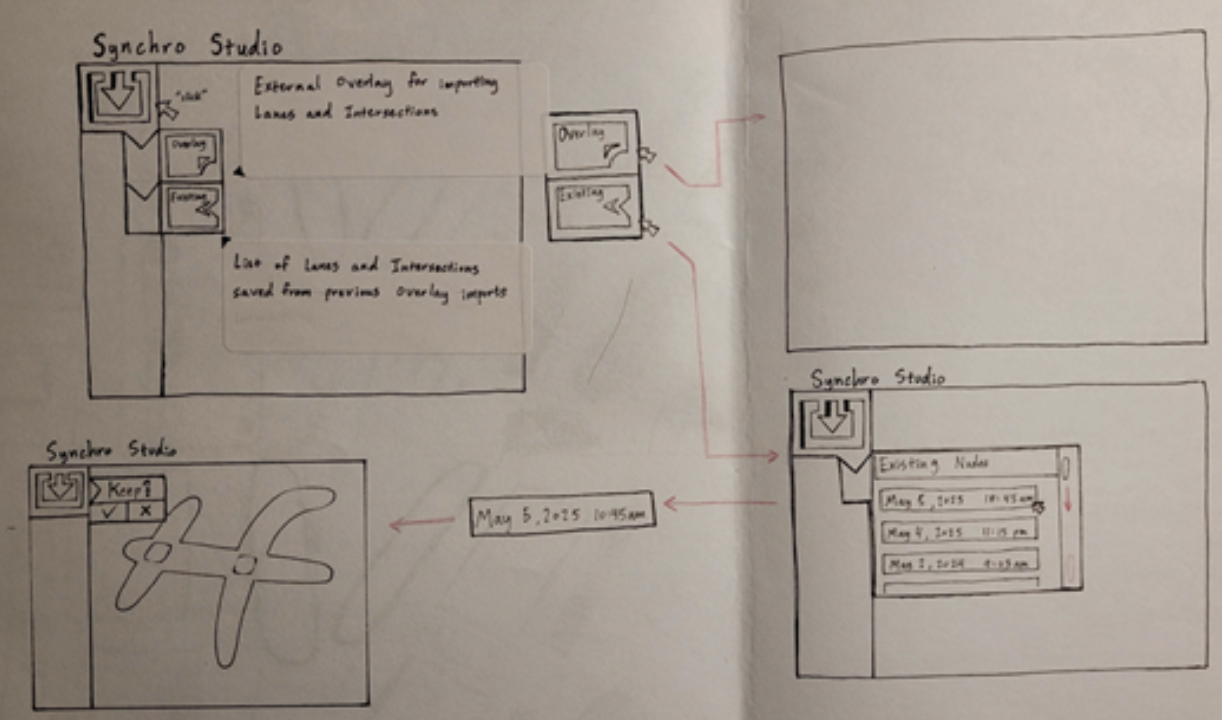
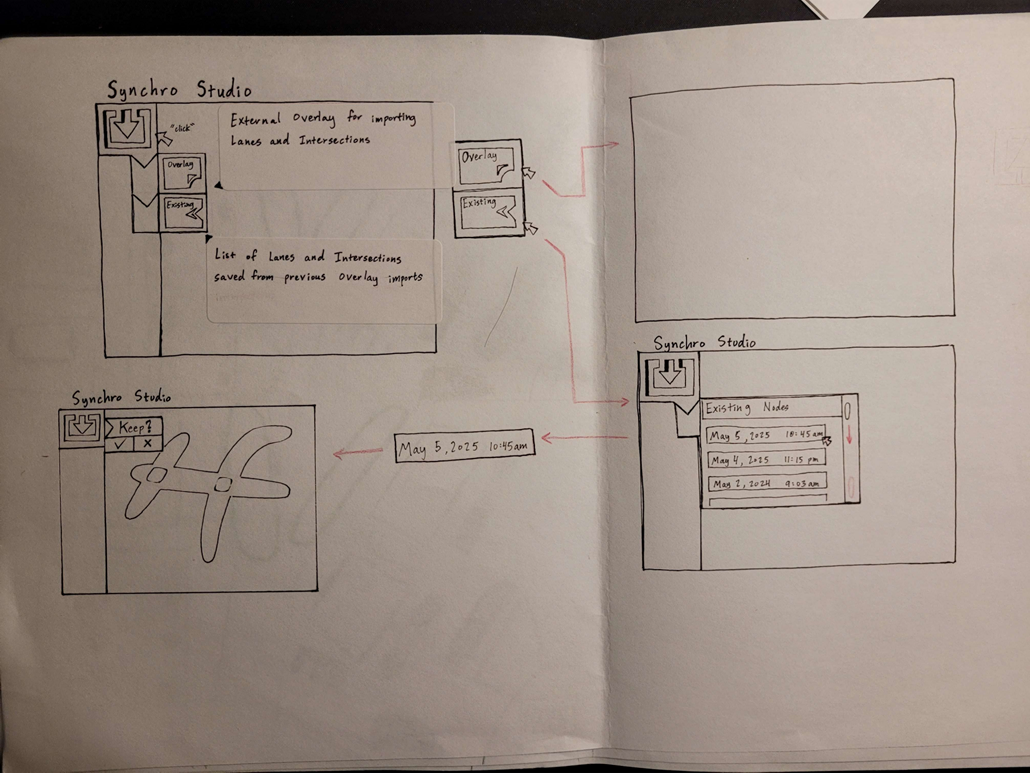
Add clearer images and reformat

Changed region(s): [[0.0, 0.0, 1.0, 1.0], [0.901, 0.0917, 0.932, 0.1222]]

diff --git a/project_report/README.md b/project_report/README.md
@@ -131,9 +131,9 @@ When we started working on paper prototype, we tried our best to focus on simpli
 What this process revealed is that it is not easy to design a product, as users could find it difficult to know what certain things do. Where we thought the user would have an easier time doing a certain task, it was actually difficult for them to do. This type of feedback helped us fix our designs so that users have an easier time doing tasks. This iterative process also revealed that users like simplicity, descriptions to help understand what certain buttons do, and also visual clarity. These types of feedback helped us make our final design easier to use. 
 
 ### Paper Prototype
-![image](https://github.com/user-attachments/assets/ce0e5cf5-f11d-44cf-a683-947ad28048a3)
-![image](https://github.com/user-attachments/assets/ec550d7a-fd00-433f-8765-462d19061a10)
-![image](https://github.com/user-attachments/assets/35bafd76-9d50-4fff-9e10-3f63f0c91250)
+![Paper Prototype 1 Improved](images/paper-prototype-task-1-improved-1.png)
+![Paper Prototype 2 Improved-1](images/paper-prototype-task-2-improved-1.png)
+![Paper Prototype 2 Improved-2](images/paper-prototype-task-2-improved-2.png)
 
 
 
@@ -146,8 +146,11 @@ the add lane button.
 to language used (i.e basic symbols).
 Because the lane adding was unclear, the
 exit button was also a little unclear."
-- **Design changes:** Before: ![image](https://github.com/user-attachments/assets/d41c8006-f061-446a-9f61-bace0dda8db8)
- After: ![image](https://github.com/user-attachments/assets/80ddde5e-5af8-43f6-8c86-fdf096d4efd4)
+- **Design changes:** 
+Before: 
+![Task 1-1 Visual Before](images/digital-prototype-task-1-old-1.png)
+After: 
+![Task 1-1 Visual After](images/digital-prototype-task-1-new-1.png)
 
 
 #### **Making Each Road Selectable**
@@ -158,17 +161,21 @@ I have to find the nearest intersection in
 order to select the road. This makes
 knowing when roads are able to be
 selected confusing."
-- **Design changes:** Before: ![image](https://github.com/user-attachments/assets/44173767-b30f-4b44-a293-33bf9cfc9fa2)
-After: ![image](https://github.com/user-attachments/assets/fff70eb7-2b4f-4982-b1fa-731ac51bb62b)
+- **Design changes:** 
+Before:
+![Task 1-2 Visual Before](images/digital-prototype-task-1-old-2.png)
+After:
+![Task 1-2 Visual After](images/digital-prototype-task-1-new-3.png)
 
 
 #### **Add Description For Buttons**
 - **How it emerged:** During our usability testing for our Paper Prototype, the participants had difficulty figuring out what certain buttons did.
 - **Evidence:** From our observations during our usability testing, the participant mentioned they couldn't understand what the button does as there was not description.
-- **Design changes:** Before: ![image](https://github.com/user-attachments/assets/f1f8cdce-1633-4153-b9db-ce9e67b56e9c)
-After: ![image](https://github.com/user-attachments/assets/a41da2b1-9990-4f8f-9101-3e222e07c65f)
-
-
+- **Design changes:** 
+Before:
+![Paper Prototype 1 Improved](images/paper-prototype-task-1-improved-1.png)
+After:
+![Task 1-1 Visual Improved](images/digital-prototype-task-1-new-1.png)
 ## Technical and Soft Skills Gained
 
 ### Technical Skills
